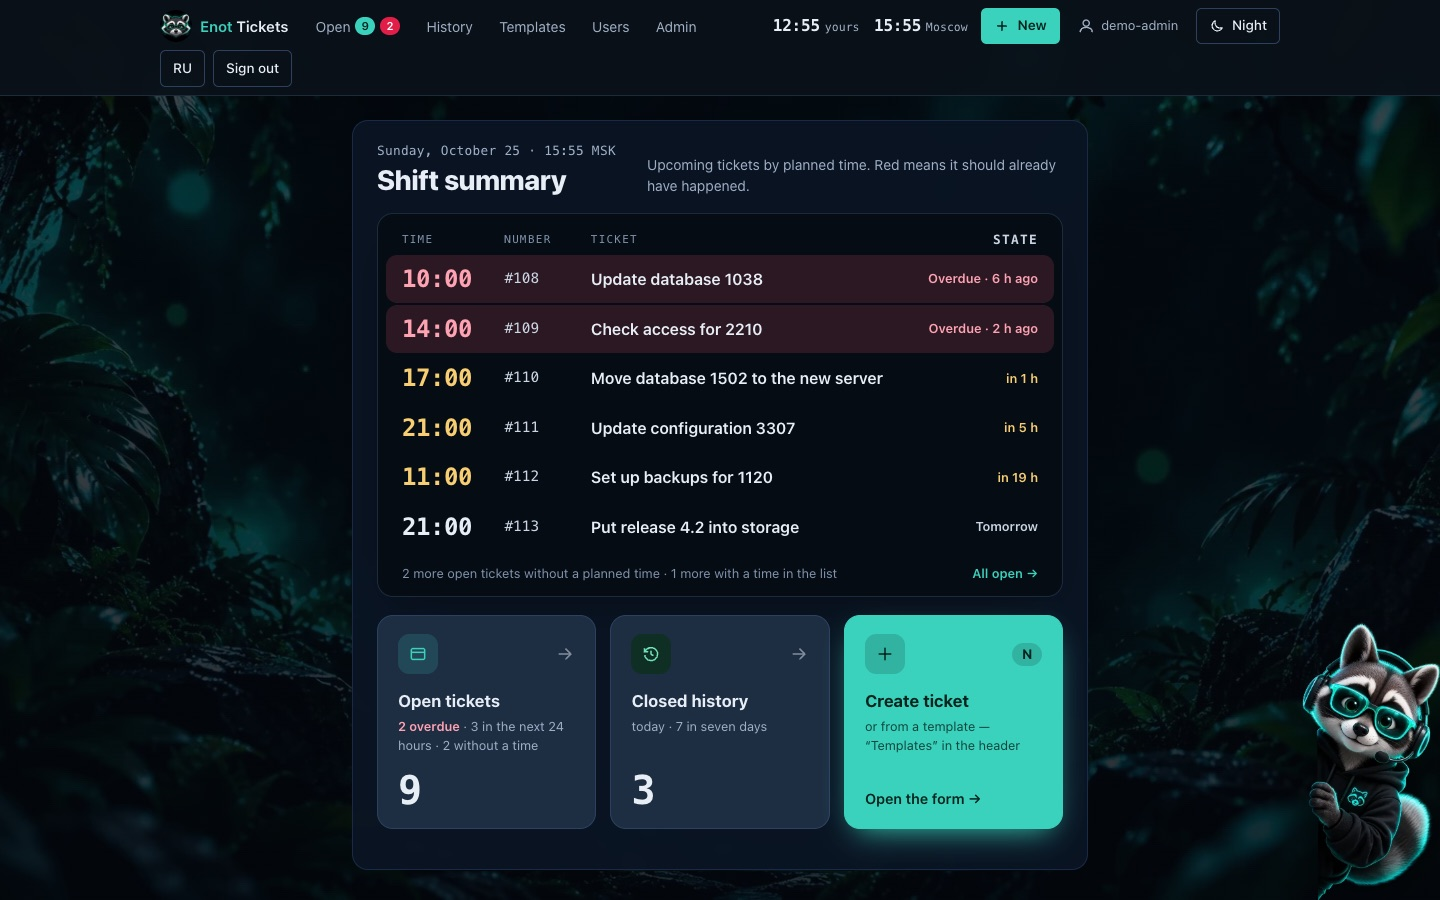
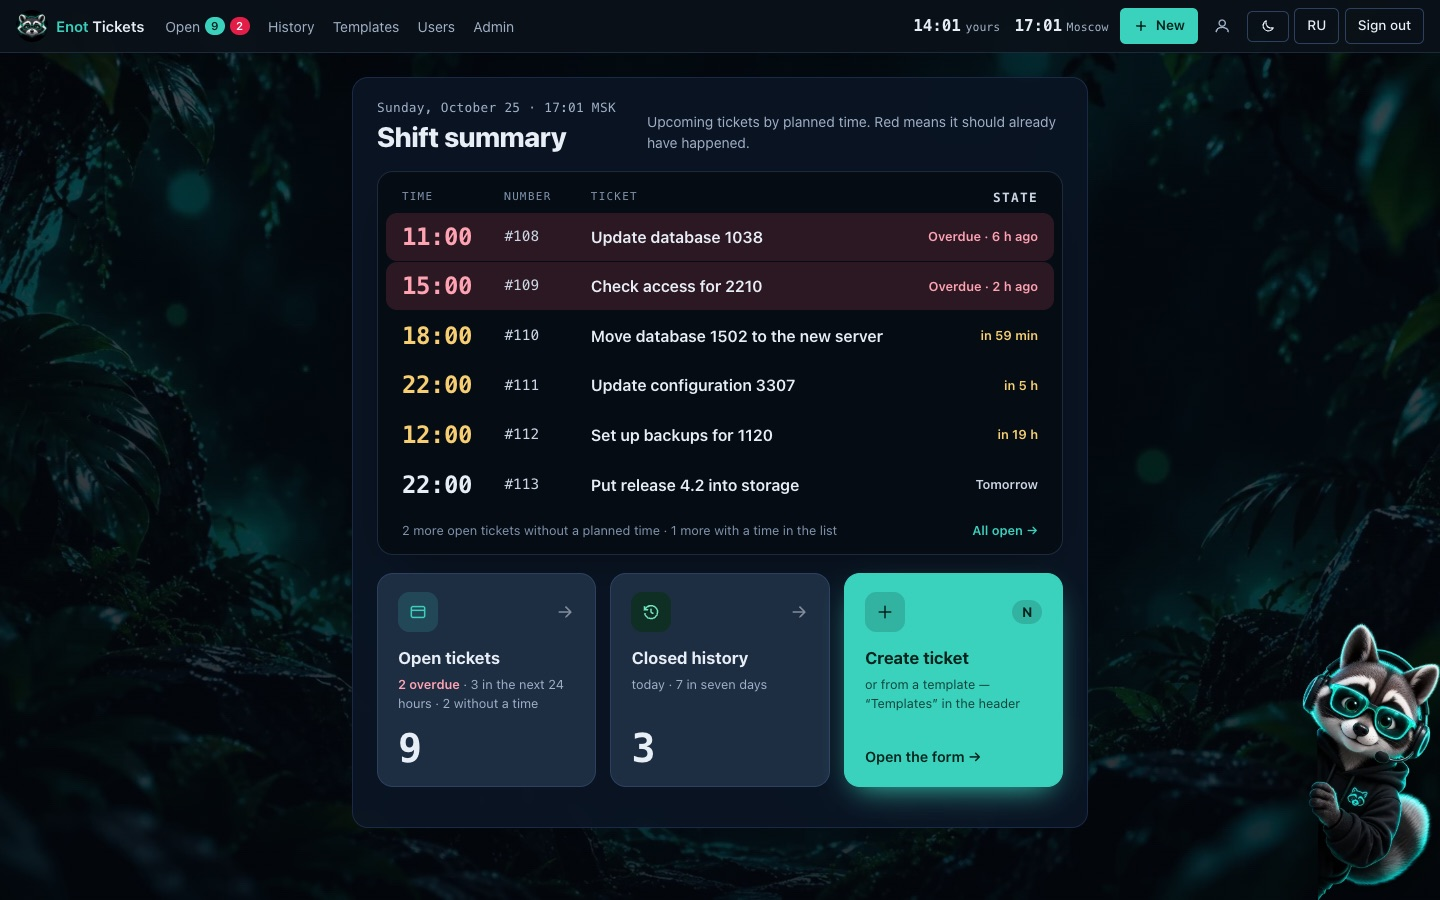
Шапка снова в одну строку, проект больше не развивается
Двое часов не помещались в шапку, и она переносилась на вторую строку.
Теперь шапка шире, а на ноутбуке поджимается: логин и название темы
становятся иконками, на узком экране остаются одни часы. От 1024 px
шапка в одну строку, телефон не менялся.

В README раздел «Что дальше»: эта версия последняя, проект больше не
развивается. Скриншоты пересняты.

diff --git a/static/tailwind.css b/static/tailwind.css
@@ -775,7 +775,7 @@ input[type="checkbox"], input[type="radio"] { accent-color: var(--accent); }
     color: var(--top-text);
 }
 .topbar-in {
-    max-width: 72rem;
+    max-width: 90rem;
     margin: 0 auto;
     padding: 0.5rem 1rem;
     display: flex;
@@ -1421,7 +1421,6 @@ fieldset { border: 0; margin: 0; padding: 0; min-width: 0; }
 @media (min-width: 1600px) {
     html { font-size: 17px; }
     .page { max-width: var(--page-max-wide); }
-    .topbar-in { max-width: 80rem; }
 }
 @media (min-width: 2200px) {
     html { font-size: 18px; }
@@ -1431,9 +1430,21 @@ fieldset { border: 0; margin: 0; padding: 0; min-width: 0; }
 @media (max-width: 440px) {
     .hero-card { padding: 1.5rem 1rem 1.25rem; }
 }
-/* планшет и узкий ноутбук: шапка в одну строку — тема и логин иконками */
-@media (max-width: 1100px) {
+/* ноутбук и планшет: шапка в одну строку. Сначала тема и логин становятся иконками,
+   а вкладки плотнее; уже 1280 px остаются только вторые часы (пояс из настройки),
+   уже 1200 px у лого остаётся только енот. На телефоне часы своей строкой, там видны оба. */
+@media (max-width: 1500px) {
     .topbar-user, .topbar [data-theme-label] { display: none; }
+}
+@media (min-width: 641px) and (max-width: 1500px) {
+    .topbar-in { column-gap: 0.35rem; }
+    .topbar .tab { padding-left: 0.45rem; padding-right: 0.45rem; }
+}
+@media (min-width: 641px) and (max-width: 1279px) {
+    .clock[data-clock-local] { display: none; }
+}
+@media (min-width: 641px) and (max-width: 1199px) {
+    .brand > span { display: none; }
 }
 @media (max-width: 640px) {
     .topbar { position: static; }

diff --git a/templates/base.html b/templates/base.html
@@ -7,7 +7,7 @@
     <link rel="icon" href="/static/favicon.png?v=2" type="image/png">
     <link rel="icon" href="/static/favicon.svg" type="image/svg+xml" sizes="any">
     {% if csrf_token %}<meta name="csrf-token" content="{{ csrf_token }}">{% endif %}
-    <link rel="stylesheet" href="/static/tailwind.css?v=56">
+    <link rel="stylesheet" href="/static/tailwind.css?v=57">
     <script src="/static/theme.js?v=14" defer></script>
     <script src="/static/app.js?v=6" defer></script>
     <script src="/static/htmx.min.js?v=1" defer></script>

diff --git a/README.md b/README.md
@@ -53,7 +53,7 @@
 
 ### Что дальше
 
-Развиваю по запросу. Если панель вам пригодилась и чего-то не хватает, откройте [issue](https://github.com/Flint-sega/tikety-enot/issues): будет интерес, буду дописывать. Если нет, проект останется в этом виде. Код открыт под лицензией [MIT](LICENSE): берите, меняйте и используйте как угодно, в том числе в коммерческих проектах, главное — сохраните файл лицензии. С чего начать, описано в разделе [«Для разработчиков»](#для-разработчиков).
+Проект больше не развивается, эта версия последняя. Код открыт под лицензией [MIT](LICENSE): если панели чего-то не хватает, берите её за основу и дописывайте под себя. Меняйте и используйте как угодно, в том числе в коммерческих проектах, главное — сохраните файл лицензии. С чего начать, описано в разделе [«Для разработчиков»](#для-разработчиков).
 
 ## Попробовать на демо-данных
 
@@ -174,8 +174,9 @@ DB_PATH=data/demo.sqlite uv run uvicorn app.main:app --port 8072
 - **Часы.** В шапке двое часов: время устройства и выбранный часовой пояс. На выбор
   27 городов (Россия, соседние страны и несколько крупных городов мира) и UTC. Пояс для всех задаёт админ в
   **Админ → Внешний вид**, по умолчанию Москва; свой можно выбрать в **Мой профиль**.
-  Если пояс устройства совпадает с выбранным, первые часы прячутся. Часы только
-  показывают время: сроки заявок считаются по Москве.
+  Если пояс устройства совпадает с выбранным, первые часы прячутся; на экранах уже
+  1280 px остаются только вторые. Часы только показывают время: сроки заявок
+  считаются по Москве.
 - **Форма плашек и кнопок.** «Круглые» или «Прямоугольные» отдельно для плашек
   (карточки, панели, поля, чипы) и для кнопок.
 - **Мой профиль** (ссылка с логином в шапке, «Профиль» на главной) — у каждого свой:
@@ -192,7 +193,8 @@ DB_PATH=data/demo.sqlite uv run uvicorn app.main:app --port 8072
   последний цикл поллера, последнее изменение из UseDesk, сколько ждут отправки,
   ошибки и текст последней.
 - **Экраны:** телефон, планшет, ноутбук и большие мониторы (на 1600+ и 2200+ px
-  шрифт и колонка крупнее).
+  шрифт и колонка крупнее). От 1024 px шапка помещается в одну строку: на ноутбуке
+  логин и название темы сворачиваются в иконки.
 - **Главная** — «Сводка смены». Сверху дата и время по МСК, под ними тёмное табло
   ближайших заявок по плановому времени: просроченные первыми и с пометкой
   «Просрочено · 42 мин назад», остальные с «через 48 мин», «Завтра» или датой.

diff --git a/docs/themes.md b/docs/themes.md
@@ -52,7 +52,7 @@
 
 1. Откройте `static/tailwind.css` и найдите блок `:root[data-theme="new"]`.
 2. Поменяйте акцентные токены: `--accent`, `--btn-primary`, `--btn-primary-hover`, `--brand`, `--menu-icon`, `--count-bg`, `--border-focus`. Если кнопка стала светлой, поправьте и `--on-primary`, цвет текста на ней.
-3. В `templates/base.html` увеличьте версию стилей: `tailwind.css?v=56` станет `?v=57`. Иначе браузеры пользователей покажут старый файл из кэша.
+3. В `templates/base.html` увеличьте версию стилей: `tailwind.css?v=57` станет `?v=58`. Иначе браузеры пользователей покажут старый файл из кэша.
 4. Обновите страницу.
 
 Проверяйте контраст текста и фона. Для обычного текста нужно не меньше 4.5:1. Удобно смотреть в DevTools: кликните по цвету в панели Styles, и браузер покажет коэффициент.

diff --git a/README.en.md b/README.en.md
@@ -53,7 +53,7 @@ The panel was written for one small team and does that job: 363 automated tests 
 
 ### What happens next
 
-I will keep developing it if people need it. If the panel is useful to you and something is missing, open an [issue](https://github.com/Flint-sega/tikety-enot/issues): if there is interest, I will add things. If not, the project stays as it is. The code is under the [MIT license](LICENSE): take it, change it and use it however you like, commercial projects included, as long as you keep the license file. See [For developers](#for-developers) for where to start.
+The project is no longer developed; this is the final version. The code is under the [MIT license](LICENSE): if the panel lacks something, take it as a starting point and build what you need. Change it and use it however you like, commercial projects included, as long as you keep the license file. See [For developers](#for-developers) for where to start.
 
 ## Try it with demo data
 

diff --git a/docs/themes.en.md b/docs/themes.en.md
@@ -52,7 +52,7 @@ Say you want a purple accent in Night instead of teal:
 
 1. Open `static/tailwind.css` and find the `:root[data-theme="new"]` block.
 2. Change the accent tokens: `--accent`, `--btn-primary`, `--btn-primary-hover`, `--brand`, `--menu-icon`, `--count-bg`, `--border-focus`. If the button got light, adjust `--on-primary`, the text color on it.
-3. In `templates/base.html`, bump the stylesheet version: `tailwind.css?v=56` becomes `?v=57`. Otherwise browsers keep showing the cached file.
+3. In `templates/base.html`, bump the stylesheet version: `tailwind.css?v=57` becomes `?v=58`. Otherwise browsers keep showing the cached file.
 4. Reload the page.
 
 Check text contrast. Regular text needs at least 4.5:1. DevTools makes this easy: click a color in the Styles panel and the browser shows the ratio.
